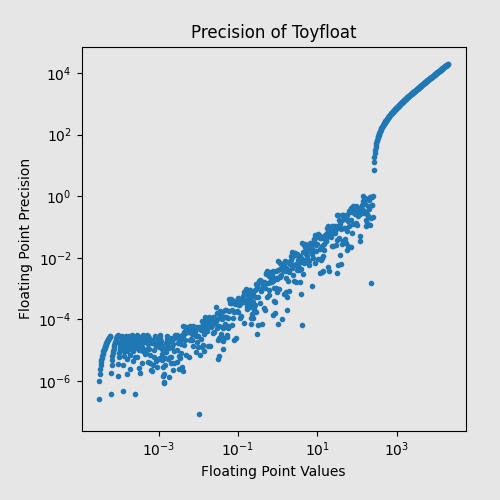
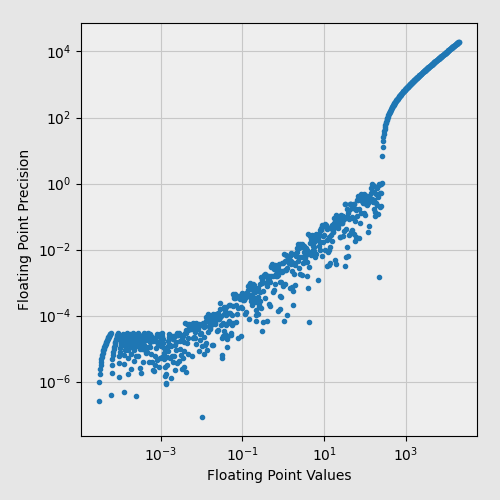
Tests.

diff --git a/conversion_test.go b/conversion_test.go
@@ -72,6 +72,36 @@ func TestNegativeOverflow(t *testing.T) {
 	}
 }
 
+func TestPositiveInfinity(t *testing.T) {
+	const expected = 255.99607843137255
+	const eps = 0.0001
+
+	v := math.Inf(+1)
+	tf := Encode(v)
+
+	result := Decode(tf)
+
+	if math.Abs(result-expected) > eps {
+		t.Logf("Encoded: 0b%b", tf)
+		t.Fatalf("%f != %f", result, expected)
+	}
+}
+
+func TestNegativeInfinity(t *testing.T) {
+	const expected = -255.99607843137255
+	const eps = 0.0001
+
+	v := math.Inf(-1)
+	tf := Encode(v)
+
+	result := Decode(tf)
+
+	if math.Abs(result-expected) > eps {
+		t.Logf("Encoded: 0b%b", tf)
+		t.Fatalf("%f != %f", result, expected)
+	}
+}
+
 func TestNaNConvertedToZero(t *testing.T) {
 	tf := Encode(math.NaN())
 	t.Logf("Encoded: 0b%b", tf)
@@ -88,14 +118,34 @@ func TestPrecision(t *testing.T) {
 		number    float64
 		precision float64
 	}{
-		{0.172, 0.000981},
-		{0.345, 0.00197},
-		{0.654, 0.00393},
-		{0.898, 0.00393},
-		{1.015, 0.00785},
-		{2.788, 0.01569},
-		{41.15, 0.25099},
-		{164.6, 1.00393},
+		{0.000015, 0.000031},
+		{0.000055, 0.000031},
+		{0.000565, 0.000031},
+		{0.000665, 0.000031},
+		{0.000765, 0.000031},
+		{0.000865, 0.000031},
+		{0.000965, 0.000031},
+		{0.001165, 0.000031},
+		{0.001265, 0.000031},
+		{0.001365, 0.000031},
+		{0.001465, 0.000031},
+		{0.002065, 0.000031},
+		{0.002165, 0.000031},
+		{0.003065, 0.000031},
+		{0.003165, 0.000031},
+
+		{0.009621, 0.000062},
+		{0.010107, 0.000062},
+
+		{0.177964, 0.000981},
+		{0.342423, 0.00197},
+		{0.659234, 0.00393},
+		{0.898094, 0.00393},
+		{1.015633, 0.00785},
+		{2.788122, 0.01569},
+
+		{41.15423, 0.25099},
+		{164.6678, 1.00393},
 	}
 
 	for _, tt := range tests {
@@ -105,6 +155,45 @@ func TestPrecision(t *testing.T) {
 		diff := math.Abs(result - tt.number)
 		if diff > tt.precision {
 			t.Fatalf("%.4f -> 0b%b, diff: %f", tt.number, toy, diff)
+		}
+	}
+
+	for _, tt := range tests {
+		negative := -tt.number
+		toy := Encode(negative)
+		result := Decode(toy)
+
+		diff := math.Abs(result - negative)
+		if diff > tt.precision {
+			t.Fatalf("%.4f -> 0b%b, diff: %f", negative, toy, diff)
+		}
+	}
+}
+
+func TestIgnoringMostSignificantByte(t *testing.T) {
+	for f := -255.0; f <= 255.0; f += 0.01 {
+		toy := Encode(f)
+		original := Decode(toy)
+
+		if 0xF000&toy != 0x0 {
+			t.Fatalf("%.4f -> 0b%b (has extra bits)", f, toy)
+		}
+
+		for m := 0x1; m < 0xF; m++ {
+			modification := uint16(m) << 12
+			toyModified := toy | modification
+			modified := Decode(toyModified)
+
+			if toy == toyModified {
+				t.Fatalf("This test is broken. "+
+					"Toy: 0b%b. Modification: 0b%b.",
+					toy, modification)
+			}
+
+			if modified != original {
+				t.Fatalf("%.4f != %.4f, modification: 0b%b",
+					modified, original, modification)
+			}
 		}
 	}
 }

diff --git a/images/plot.py b/images/plot.py
@@ -11,18 +11,17 @@ for row in read_tsv:
     v = float(row[0])
     p = float(row[1])
 
-    if (v < 20000) and (p > 0):
+    if v < 20000:
         values.append(v)
         precision.append(p)
 
 figure = plt.figure()
 
-bg_color = '#e6e6e6'
-figure.patch.set_facecolor(bg_color)
-plt.axes().set_facecolor(bg_color)
+figure.patch.set_facecolor('#e6e6e6')
+plt.axes().set_facecolor('#eeeeee')
 
 figure.set_size_inches(5, 5)
-plt.subplots_adjust(left=0.163, bottom=0.138, right=0.931, top=0.907)
+plt.subplots_adjust(left=0.162, bottom=0.129, right=0.954, top=0.954)
 
 plt.plot(values, precision, '.')
 
@@ -32,7 +31,9 @@ plt.ylabel('Floating Point Precision')
 plt.xscale('log')
 plt.yscale('log')
 
-plt.title('Precision of Toyfloat')
+plt.grid(True, color='#c7c7c7')
+
+# plt.title('Precision of Toyfloat')
 
 # plt.show()
 plt.savefig('precision.png')

diff --git a/internal/impl/conversion.go b/internal/impl/conversion.go
@@ -3,13 +3,13 @@ package impl
 import "math"
 
 const exponentOffset = 8
+const a = 1.0 / 256.0
+
+const reversedB = 1.0 - a
+const b = 1.0 / reversedB
 
 const minExponent = -exponentOffset
 const maxExponent = minExponent + 15
-
-const a = 1.0 / 256.0
-const reversedB = 1.0 - a
-const b = 1.0 / reversedB
 
 const minus uint16 = 0b1000_0000
 const binaryMaxSignificand uint16 = 0b0111_1111

diff --git a/images/gen_precision.go b/images/gen_precision.go
@@ -24,10 +24,10 @@ func main() {
 		value := math.Pow(10, p)
 		v2 := toyfloat.Decode(toyfloat.Encode(value))
 
-		if (v2 > 0) || (p > 0) {
+		if v2 > 0 {
 			precision := math.Abs(value - v2)
 
-			_, err := fmt.Fprintf(output, "%.12f\t%.12f\n", value, precision)
+			_, err := fmt.Fprintf(output, "%E\t%E\n", value, precision)
 			if err != nil {
 				panic(err)
 			}

diff --git a/README.md b/README.md
@@ -4,8 +4,8 @@
 
 Expected applications:
 
-* File Format Design
-* Storing colors (pixels, voxels)
+* File format design
+* Lossy compression
 
 It has:
 
@@ -14,7 +14,6 @@ It has:
 * 1 sign bit
 * (-255.9961, 255.9961) values range
 * exact 0, 1, -1
-* no infinities
 * no NaN
 
 ![Formula](images/formula.png)
